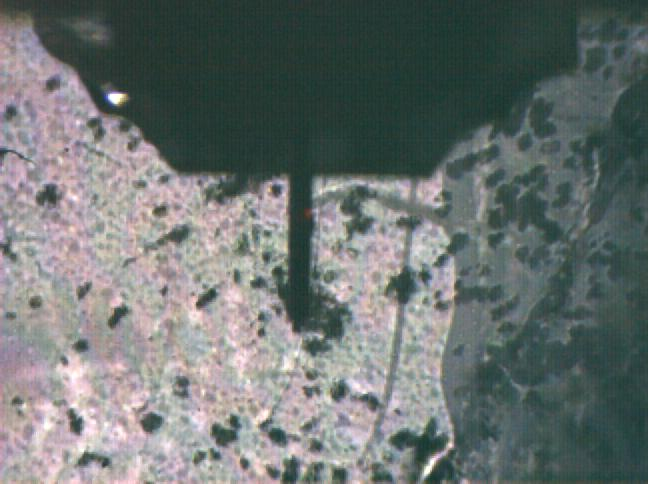
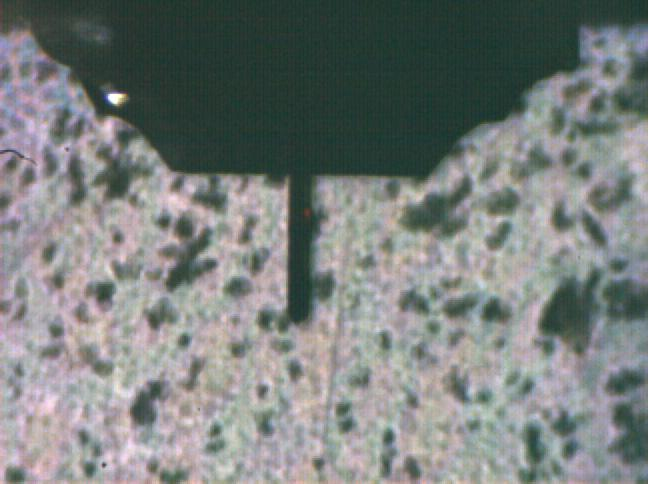
added cropping

diff --git a/computervision_new.py b/computervision_new.py
@@ -12,8 +12,10 @@ threshhold_for_binary = 117
 circularity_limit = 0.16
 threshhold_for_binary_cantelever_on_skincell = 95  # adjust if needed
 minimumArea = 100.0
-maximumArea = 1000.0
-
+maximumArea = 2000.0
+blocksize_adaptive_thresh = 57
+constant_adaptive_thresh = 20
+top_crop = 75
 
 #######################################
 ######### Functions in use ############
@@ -21,11 +23,12 @@ maximumArea = 1000.0
 
 def labelCurrentImage():
     image = cv2.imread("images/currentPosition.JPG")
+    image = image[top_crop:, :]
     cv2.imshow("Original image", image)
 
     gray = cv2.cvtColor(image, cv2.COLOR_BGR2GRAY)
 
-    binary = cv2.adaptiveThreshold(gray, 255, cv2.ADAPTIVE_THRESH_MEAN_C, cv2.THRESH_BINARY_INV , 57,50)
+    binary = cv2.adaptiveThreshold(gray, 255, cv2.ADAPTIVE_THRESH_MEAN_C, cv2.THRESH_BINARY_INV , blocksize_adaptive_thresh,constant_adaptive_thresh)
 
     footprint_disk = disk(erosion_disk_size)
 
@@ -52,7 +55,7 @@ def labelCurrentImage():
             # fallback: bounding box center
             x, y, w, h = cv2.boundingRect(contour)
             cx, cy = x + w // 2, y + h // 2
-        if area>minimumArea and area<maximumArea and (hierarchy[0][i][3]==-1) and (hierarchy[0][i][2]==-1)and not(290 <= cx <= 315 and 175 <= cy <= 330):
+        if area>minimumArea and area<maximumArea and (hierarchy[0][i][3]==-1) and (hierarchy[0][i][2]==-1)and not(290 <= cx <= 315 and 175 - top_crop <= cy <= 330 - top_crop):
                 # If First_Child == -1, no holes
             cv2.drawContours(image, [contour], -1, (0, 255, 0), 2)
             cv2.drawContours(output, [contour], -1, (0, 255, 0), 2)
@@ -80,7 +83,6 @@ def labelCurrentImage():
             cv2.putText(output, str(i), (cx, cy), cv2.FONT_HERSHEY_SIMPLEX, 0.6, (0, 0, 255), 2)
 
     # Show results
-    cv2.imshow("Image with contours", image)
     cv2.imshow("Binary", binary)
     cv2.waitKey(0)
     cv2.destroyAllWindows()
@@ -88,6 +90,8 @@ def labelCurrentImage():
 
 
 def onSkincell(image):
+    image = image[top_crop:, :]
+
     cropped_image = image[310:335, 270:325]  # crops like (y1:y2, x1:x2)
     gray_cropped = cv2.cvtColor(cropped_image, cv2.COLOR_BGR2GRAY)
 
@@ -102,8 +106,10 @@ def onSkincellFile(file):
 
 
 def findBiggestSkincell(image):
+    image = image[top_crop:, :]
+
     gray = cv2.cvtColor(image, cv2.COLOR_BGR2GRAY)
-    binary = cv2.adaptiveThreshold(gray, 255, cv2.ADAPTIVE_THRESH_MEAN_C, cv2.THRESH_BINARY_INV , 57,50)
+    binary = cv2.adaptiveThreshold(gray, 255, cv2.ADAPTIVE_THRESH_MEAN_C, cv2.THRESH_BINARY_INV , blocksize_adaptive_thresh,constant_adaptive_thresh)
     footprint_disk = disk(erosion_disk_size)
     eroded = erosion(binary, footprint_disk)
 
@@ -130,7 +136,7 @@ def findBiggestSkincell(image):
             x, y, w, h = cv2.boundingRect(contour)
             cx, cy = x + w // 2, y + h // 2
         # Check both area range AND circularity
-        if (minimumArea < area < maximumArea and circularity > circularity_limit)  and (hierarchy[0][i][3]==-1) and (hierarchy[0][i][2]==-1)and not(290 <= cx <= 315 and 175 <= cy <= 330):
+        if (minimumArea < area < maximumArea and circularity > circularity_limit)  and (hierarchy[0][i][3]==-1) and (hierarchy[0][i][2]==-1)and not(290 <= cx <= 315 and 175 - top_crop <= cy <= 330 - top_crop):
             cv2.drawContours(image, [contour], -1, (0, 255, 0), 2)  # green contour
             
             if area > max_area:
@@ -159,8 +165,10 @@ def findBiggestSkincellFileName(file):
 
 def findBiggestSkincellVisual(image):
     # Convert to grayscale and threshold
+    image = image[top_crop:, :]
+
     gray = cv2.cvtColor(image, cv2.COLOR_BGR2GRAY)
-    binary = cv2.adaptiveThreshold(gray, 255, cv2.ADAPTIVE_THRESH_MEAN_C, cv2.THRESH_BINARY_INV , 57,50)
+    binary = cv2.adaptiveThreshold(gray, 255, cv2.ADAPTIVE_THRESH_MEAN_C, cv2.THRESH_BINARY_INV , blocksize_adaptive_thresh,constant_adaptive_thresh)
     footprint_disk = disk(erosion_disk_size)
     eroded = erosion(binary, footprint_disk)
     # Find contours
@@ -190,7 +198,7 @@ def findBiggestSkincellVisual(image):
         circularity = 4 * pi * (contour_area / (perimeter * perimeter))
         
         # Check both area range AND circularity
-        if contour_area>minimumArea and contour_area<maximumArea and (hierarchy[0][i][3]==-1) and (hierarchy[0][i][2]==-1) and not(290 <= cx <= 315 and 175 <= cy <= 330):
+        if contour_area>minimumArea and contour_area<maximumArea and (hierarchy[0][i][3]==-1) and (hierarchy[0][i][2]==-1) and not(290 <= cx <= 315 and 175 - top_crop <= cy <= 330 - top_crop):
             cv2.drawContours(image, [contour], -1, (0, 255, 0), 2)  # green contour
             
             if contour_area > max_area:
@@ -215,6 +223,7 @@ def findBiggestSkincellVisual(image):
 
 def fullDebug():
     image = cv2.imread("images/currentPosition.jpg")
+
     coordinates, output = findBiggestSkincellVisual(image)
     print("---------------")
     print("Coordinates: " ,  coordinates)
